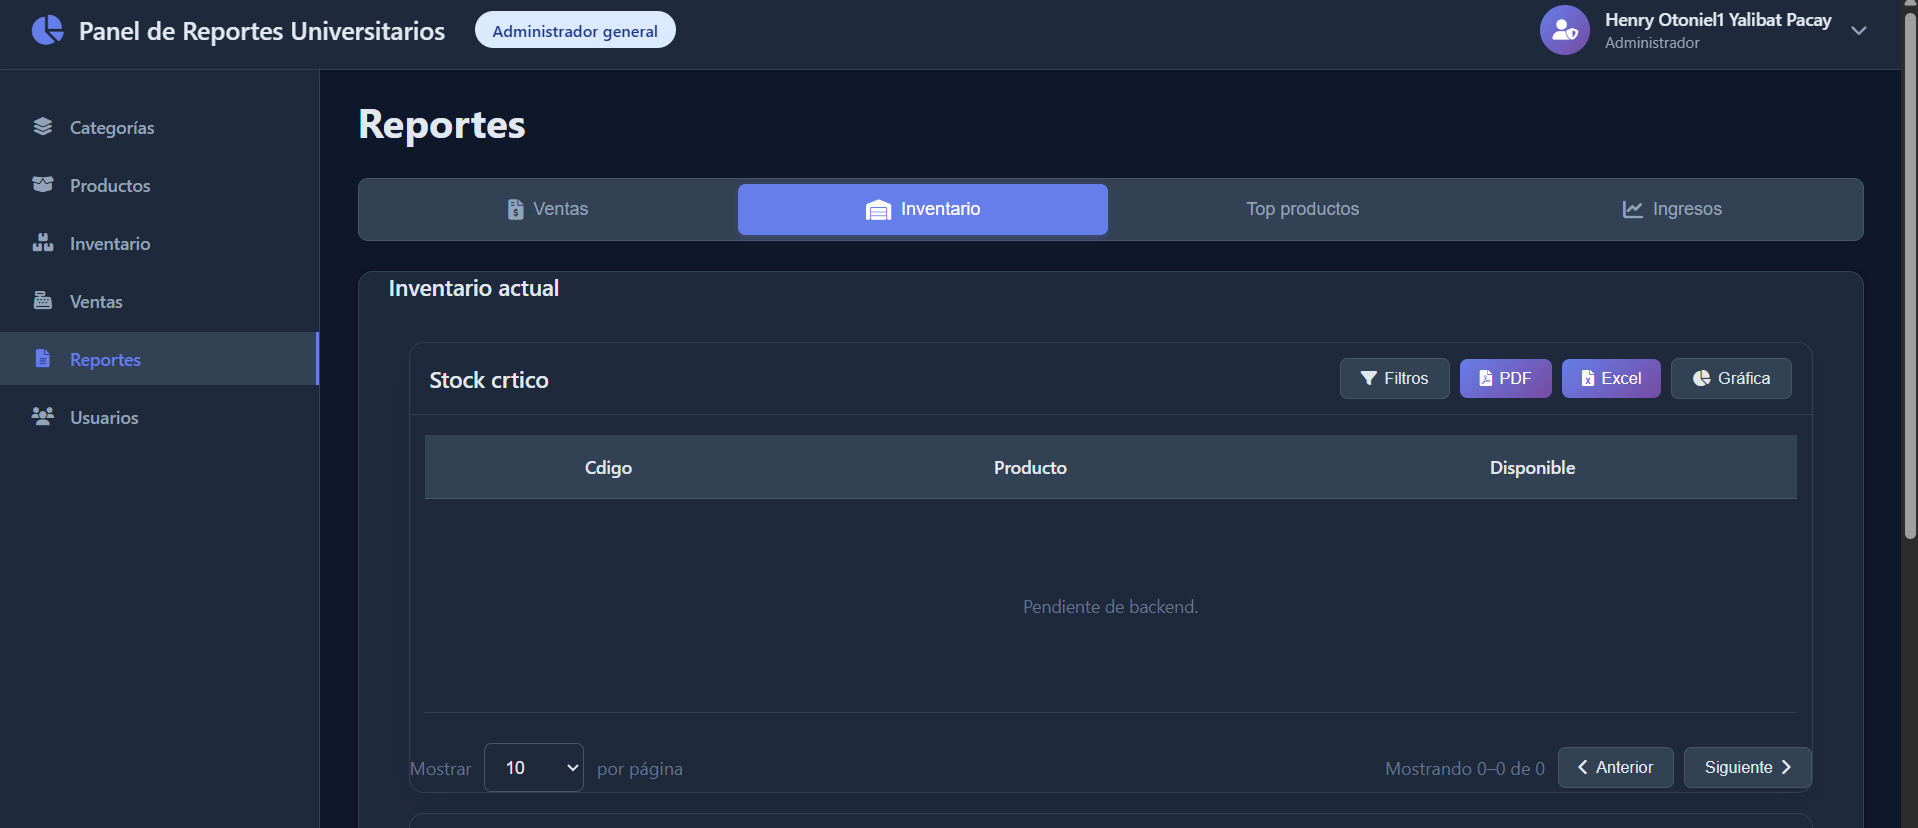
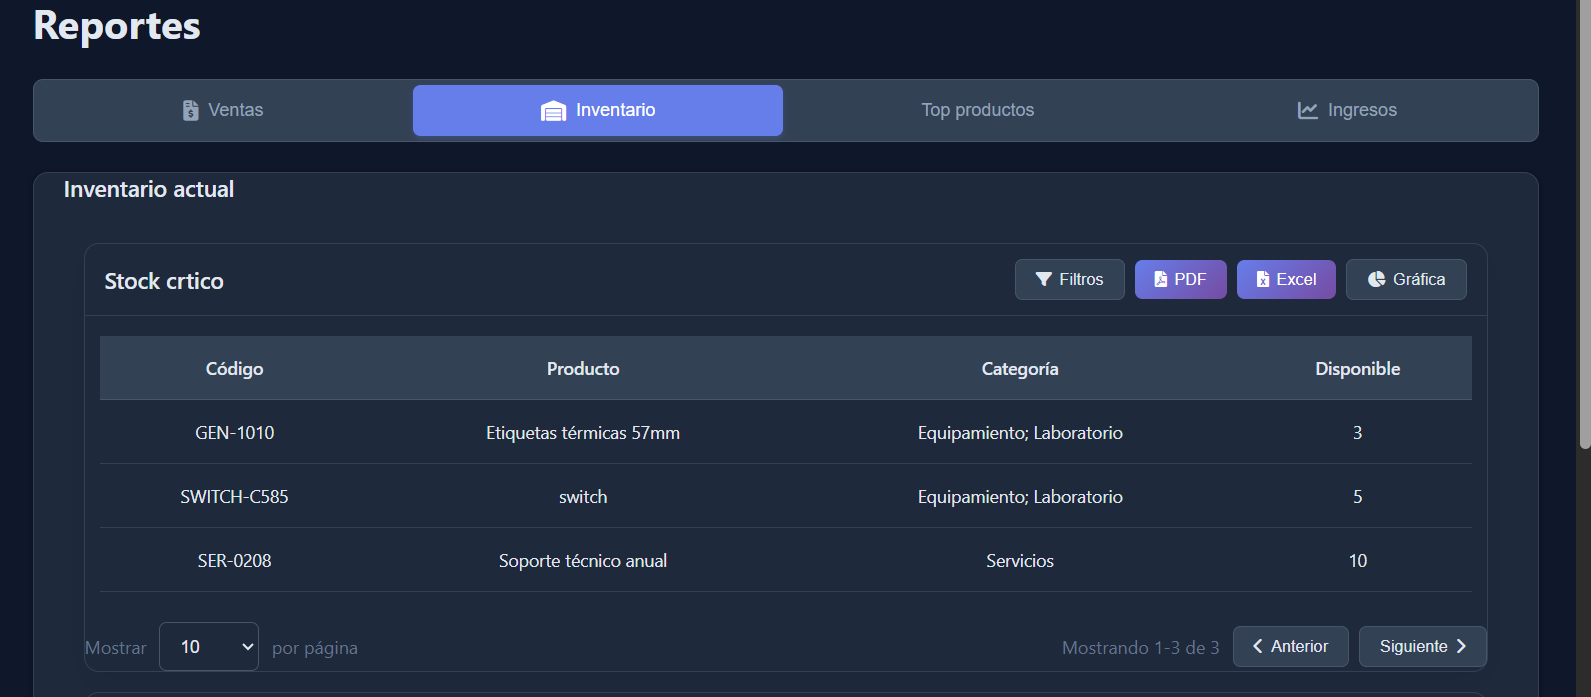
Filtros-inventario

diff --git a/public/js/dashboard-app.js b/public/js/dashboard-app.js
@@ -1761,8 +1761,45 @@
         const modTitle2 = document.getElementById('reportFiltersTitle');
         if (modTitle2) modTitle2.innerHTML = '<i class="fas fa-filter"></i> Filtros de Stock crítico';
         const box2 = document.getElementById('repFiltersModalBox');
-        if (box2) box2.innerHTML = `<div class="filter-form"><div class="form-row">${selectFilterHtml('Categoría crítica', 'fCritCategoria', ['Todas'])}<div></div></div></div>`;
-        modalManager.open('reportFiltersModal');
+        // Cargar categorías reales desde backend y poblar el select
+        fetch('/api/productos/catalogo/categorias')
+          .then(r => r.json())
+          .then(data => {
+            const categorias = Array.isArray(data?.categorias) ? data.categorias : [];
+            const opts = ['Todas', ...categorias];
+            if (box2) box2.innerHTML = `<div class="filter-form"><div class="form-row">${selectFilterHtml('Categorías', 'fCategoria', opts)}<div></div></div></div>`;
+            const sel = document.getElementById('fCategoria');
+            const current = (window.invCritFilter && window.invCritFilter.categoria) ? window.invCritFilter.categoria : 'Todas';
+            if (sel && opts.includes(current)) sel.value = current;
+            const applyBtn = document.getElementById('repModalApplyBtn');
+            const clearBtn = document.getElementById('repModalClearBtn');
+            if (applyBtn) applyBtn.onclick = () => {
+              const val = document.getElementById('fCategoria')?.value || 'Todas';
+              window.invCritFilter = { categoria: val };
+              modalManager.close('reportFiltersModal');
+              try { showToast('Filtros aplicados', 'success'); } catch {}
+              // Forzar recarga de la tabla de crítico si existe el renderizador
+              try { if (typeof renderInvCrit === 'function') {} } catch {}
+              // Ejecuta el render local dentro del scope
+              if (typeof window.invCritRender === 'function') { window.invCritRender(); }
+              // Fallback: dispara un evento para que el bloque de render lo intercepte
+              window.dispatchEvent(new CustomEvent('report:invCrit:filters-applied'));
+            };
+            if (clearBtn) clearBtn.onclick = () => {
+              window.invCritFilter = { categoria: 'Todas' };
+              const s = document.getElementById('fCategoria'); if (s) s.value = 'Todas';
+              try { showToast('Filtros limpios'); } catch {}
+              if (typeof window.invCritRender === 'function') { window.invCritRender(); }
+              window.dispatchEvent(new CustomEvent('report:invCrit:filters-applied'));
+              modalManager.close('reportFiltersModal');
+            };
+            modalManager.open('reportFiltersModal');
+          })
+          .catch(() => {
+            // Si falla, abrir con solo 'Todas'
+            if (box2) box2.innerHTML = `<div class="filter-form"><div class="form-row">${selectFilterHtml('Categorías', 'fCategoria', ['Todas'])}<div></div></div></div>`;
+            modalManager.open('reportFiltersModal');
+          });
       });
       document.getElementById('invMovFiltersBtn')?.addEventListener('click', () => {
         const modTitle3 = document.getElementById('reportFiltersTitle');
@@ -1793,7 +1830,8 @@
           const page = Math.max(1, window.invCritPager.page || 1);
           const limit = Math.max(1, window.invCritPager.pageSize || 10);
           tbody.innerHTML = '<tr><td colspan="4"><p class="empty-state">Cargando...</p></td></tr>';
-          fetch(`/api/reportes/inventario/critico?page=${page}&limit=${limit}`)
+          const cat = (window.invCritFilter && window.invCritFilter.categoria && window.invCritFilter.categoria !== 'Todas') ? `&categoria=${encodeURIComponent(window.invCritFilter.categoria)}` : '';
+          fetch(`/api/reportes/inventario/critico?page=${page}&limit=${limit}${cat}`)
             .then(r => r.json())
             .then(data => {
               if (!data || !data.success) throw new Error(data && data.message || 'Error');
@@ -1816,6 +1854,12 @@
             })
             .catch(() => { tbody.innerHTML = '<tr><td colspan="4"><p class="empty-state">Error cargando.</p></td></tr>'; });
         }
+        // Exponer para que el handler de filtros pueda forzar recarga
+        window.invCritRender = renderInvCrit;
+        // También escuchar un evento simple
+        window.addEventListener('report:invCrit:filters-applied', () => {
+          try { renderInvCrit(); } catch {}
+        });
         // Paginación para crítico
         ;(function wireInvCritPager(){
           const pageSizeSelect = document.getElementById('repInvCritPageSize');

diff --git a/server.js b/server.js
@@ -184,17 +184,42 @@ app.get('/api/reportes/inventario/critico', async (req, res) => {
     const page = Math.max(1, parseInt(req.query.page || '1', 10));
     const limit = Math.min(100, Math.max(1, parseInt(req.query.limit || '10', 10)));
     const offset = (page - 1) * limit;
+    const categoria = String(req.query.categoria || '').trim();
 
     const pool = await getPool();
-    const total = (await pool.request().query('SELECT COUNT(*) AS total FROM inv.v_productos WHERE Cantidad > 0 AND Cantidad < 25')).recordset[0].total;
+    // Construir filtros dinámicos (opcional por categoría)
+    const whereParts = ['Cantidad > 0', 'Cantidad < 25'];
+    let filterSqlExists = '';
+    if (categoria) {
+      if (categoria.toLowerCase() === '__none__' || categoria.toLowerCase() === '__sin__' || categoria.toLowerCase() === 'sin categoría' || categoria.toLowerCase() === 'sin categoria') {
+        // Productos sin relación en M:N
+        filterSqlExists = ` AND NOT EXISTS (
+            SELECT 1 FROM inv.producto_categoria pc WHERE pc.IdProducto = v.IdProducto
+        )`;
+      } else if (categoria.toLowerCase() !== 'todas') {
+        filterSqlExists = ` AND EXISTS (
+            SELECT 1
+            FROM inv.producto_categoria pc
+            JOIN inv.categorias c ON c.IdCategoria = pc.IdCategoria
+            WHERE pc.IdProducto = v.IdProducto
+              AND LOWER(CONVERT(VARCHAR(100), c.Nombre COLLATE Latin1_General_CI_AI)) = LOWER(CONVERT(VARCHAR(100), @cat COLLATE Latin1_General_CI_AI))
+        )`;
+      }
+    }
+
+    // Total con mismo filtro
+    const rCount = pool.request();
+    if (filterSqlExists.includes('@cat')) rCount.input('cat', sql.VarChar(120), categoria);
+    const total = (await rCount.query(`SELECT COUNT(*) AS total FROM inv.v_productos v WHERE ${whereParts.join(' AND ')}${filterSqlExists}`)).recordset[0].total;
 
     const r = pool.request();
     r.input('offset', sql.Int, offset);
     r.input('limit', sql.Int, limit);
+    if (filterSqlExists.includes('@cat')) r.input('cat', sql.VarChar(120), categoria);
     const rows = (await r.query(`
       SELECT Codigo, Nombre, COALESCE(Categorias, '') AS Categorias, Cantidad
-      FROM inv.v_productos
-      WHERE Cantidad > 0 AND Cantidad < 25
+      FROM inv.v_productos v
+      WHERE ${whereParts.join(' AND ')}${filterSqlExists}
       ORDER BY Cantidad ASC, Nombre ASC
       OFFSET @offset ROWS FETCH NEXT @limit ROWS ONLY
     `)).recordset;
